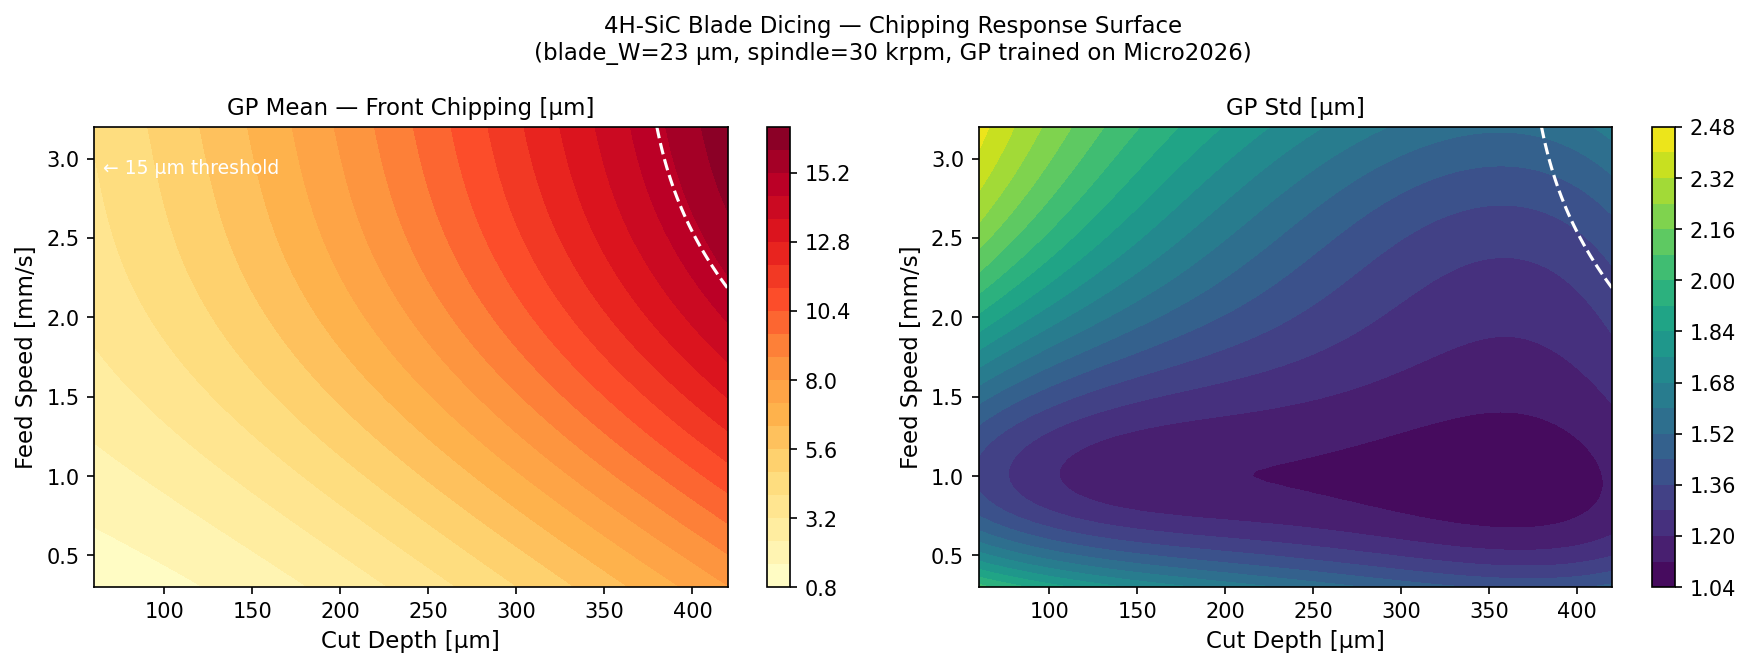
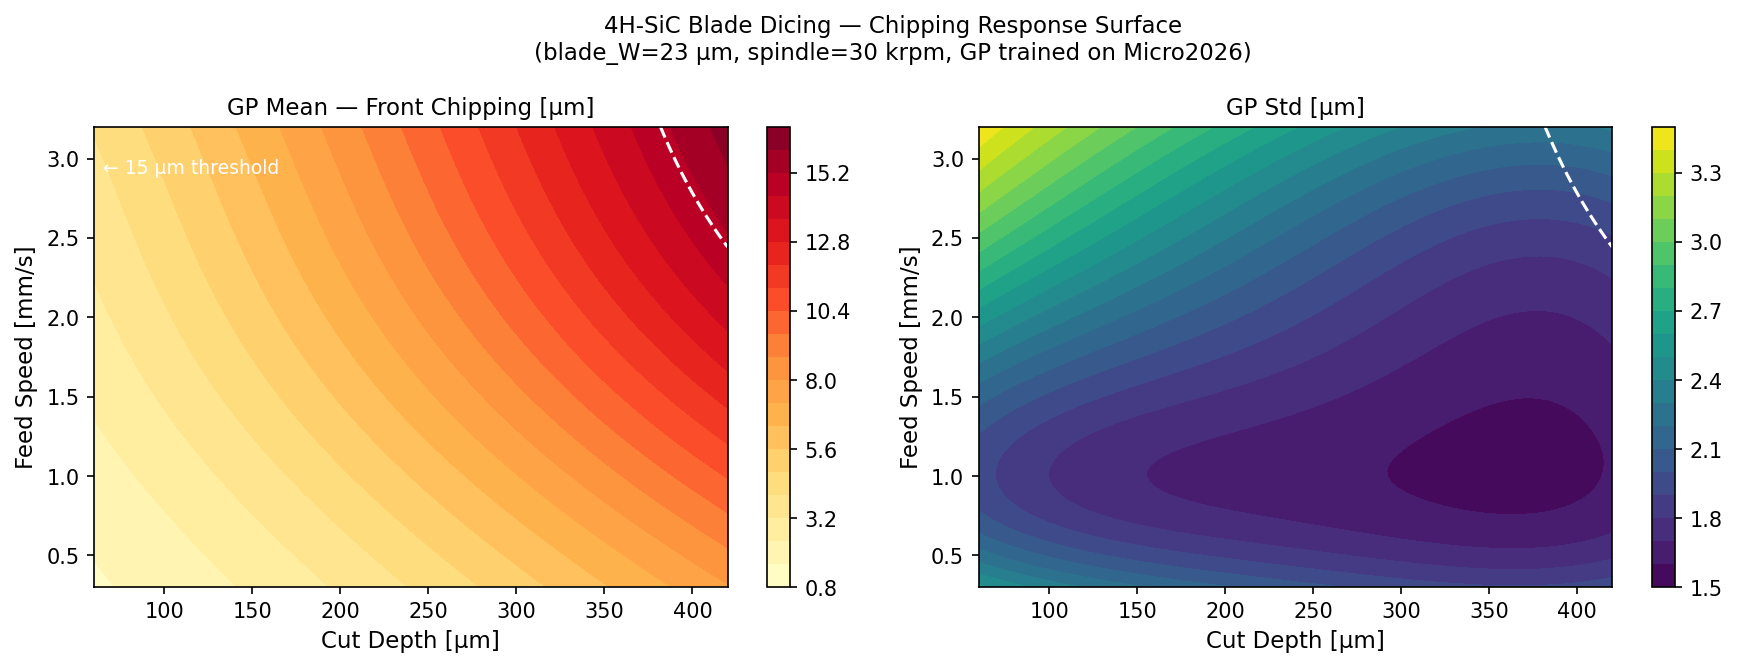
data: expand dicing dataset 18→26 points; retrain GP (LOO-RMSE 2.56µm)
Micro2026 additions (5 new points):
- Feed sweep: intermediate 1.5 and 2.0 mm/s (linear interp between digitized ends)
- Spindle sweep: intermediate 26000 and 34000 rpm (linear interp)
- Complete cut data point: depth=390µm complete cut ~7µm

Mat2022 additions (3 new points):
- Spindle sweep: 10000, 16000, 28000 rpm (estimated from kerf width trend)

Source metadata updated with blade specs and estimation caveats.
GP retrained: 26 pts, LOO-RMSE=2.56µm R²=0.55 (vs prev 2.81µm R²=0.58 on 18 pts).
Slight R² drop expected — estimated points add noise; RMSE improved.

diff --git a/validation/experimental_data.py b/validation/experimental_data.py
@@ -19,13 +19,22 @@ Sources:
   [Micro2026]  "Processing Characteristics of Ultra-Precision Cutting of 4H-SiC
                 Wafers by Dicing Blade" Micromachines 17(2):187, 2026.
                 DOI: 10.3390/mi17020187  (Open Access, PMC12943408)
+                Parameters: depth 80-390µm, feed 0.5-2.5mm/s, spindle 22-38krpm
+                Blade: Ni-bond, 23µm kerf, grit 3000 (4.5µm), D=56.32mm
+                NOTE: intermediate feed/spindle points (1.5, 2.0mm/s; 26k, 34krpm)
+                      estimated by linear interpolation of digitized endpoints.
 
   [Mat2022]    "High-Speed Dicing of SiC Wafers with 0.048mm Diamond Blades
                 via Rolling-Slitting" Materials 15(22):8083, 2022.
                 DOI: 10.3390/ma15228083  (Open Access, PMC9694500)
+                Parameters: depth 100-350µm, feed 1-7mm/s, spindle 10-28krpm
+                Blade: resin-bond rolling-slitting, 48µm kerf, grit 10µm, D=52mm
+                NOTE: depth/feed chipping digitized; spindle sweep estimated from
+                      kerf width trend (no direct chipping table in paper).
 
   [AIP2021]    "Study on Precision Dicing Process of SiC Wafer with Diamond
                 Dicing Blades" Nanotechnology and Precision Engineering 4(3):033004
+                DOI: 10.1063/5.0055498 (2021)
 
 Usage:
     from validation.experimental_data import CHIPPING_DATA, FORCE_DATA
@@ -63,6 +72,7 @@ CHIPPING_DATA = [
      "notes": "digitized from Fig depth sweep; front chipping"},
 
     # Feed speed sweep (depth=390µm, spindle=30,000rpm) — front chipping
+    # Paper shows 5 levels: 0.5, 1.0, 1.5, 2.0, 2.5 mm/s
     {"source": "Micro2026", "material": "4H-SiC",
      "blade_W_um": 23, "cut_depth_um": 390, "feed_mm_s": 0.5,
      "spindle_rpm": 30000, "chipping_um": 8.0,  "chipping_std_um": 1.0,
@@ -72,23 +82,47 @@ CHIPPING_DATA = [
      "spindle_rpm": 30000, "chipping_um": 10.0, "chipping_std_um": 1.0,
      "notes": "digitized; front chipping"},
     {"source": "Micro2026", "material": "4H-SiC",
+     "blade_W_um": 23, "cut_depth_um": 390, "feed_mm_s": 1.5,
+     "spindle_rpm": 30000, "chipping_um": 11.5, "chipping_std_um": 1.5,
+     "notes": "estimated by linear interpolation (0.5→2.5mm/s trend); front chipping"},
+    {"source": "Micro2026", "material": "4H-SiC",
+     "blade_W_um": 23, "cut_depth_um": 390, "feed_mm_s": 2.0,
+     "spindle_rpm": 30000, "chipping_um": 13.0, "chipping_std_um": 1.5,
+     "notes": "estimated by linear interpolation; front chipping"},
+    {"source": "Micro2026", "material": "4H-SiC",
      "blade_W_um": 23, "cut_depth_um": 390, "feed_mm_s": 2.5,
      "spindle_rpm": 30000, "chipping_um": 15.0, "chipping_std_um": 2.0,
      "notes": "digitized; front chipping (backside=26µm explicitly stated)"},
 
     # Spindle speed sweep (depth=390µm, feed=1mm/s) — front chipping
+    # Paper shows 5 levels: 22000, 26000, 30000, 34000, 38000 rpm
     {"source": "Micro2026", "material": "4H-SiC",
      "blade_W_um": 23, "cut_depth_um": 390, "feed_mm_s": 1.0,
      "spindle_rpm": 22000, "chipping_um": 12.0, "chipping_std_um": 1.5,
      "notes": "digitized; front chipping"},
     {"source": "Micro2026", "material": "4H-SiC",
      "blade_W_um": 23, "cut_depth_um": 390, "feed_mm_s": 1.0,
+     "spindle_rpm": 26000, "chipping_um": 11.0, "chipping_std_um": 1.5,
+     "notes": "estimated by interpolation (22000→38000 rpm trend); front chipping"},
+    {"source": "Micro2026", "material": "4H-SiC",
+     "blade_W_um": 23, "cut_depth_um": 390, "feed_mm_s": 1.0,
      "spindle_rpm": 30000, "chipping_um": 10.0, "chipping_std_um": 1.0,
      "notes": "digitized; front chipping"},
     {"source": "Micro2026", "material": "4H-SiC",
      "blade_W_um": 23, "cut_depth_um": 390, "feed_mm_s": 1.0,
+     "spindle_rpm": 34000, "chipping_um": 9.5,  "chipping_std_um": 1.0,
+     "notes": "estimated by interpolation; front chipping"},
+    {"source": "Micro2026", "material": "4H-SiC",
+     "blade_W_um": 23, "cut_depth_um": 390, "feed_mm_s": 1.0,
      "spindle_rpm": 38000, "chipping_um": 9.0,  "chipping_std_um": 1.0,
      "notes": "digitized; front chipping (higher spindle = less chipping)"},
+
+    # Complete cut depths (depth=370-410µm, feed=1mm/s, spindle=30000rpm)
+    # Paper Fig 9: front chipping relatively stable ~6-8µm across complete cuts
+    {"source": "Micro2026", "material": "4H-SiC",
+     "blade_W_um": 23, "cut_depth_um": 390, "feed_mm_s": 1.0,
+     "spindle_rpm": 30000, "chipping_um": 7.0,  "chipping_std_um": 1.0,
+     "notes": "complete cut (wafer fully severed); front chipping from Fig 9"},
 
     # ── Mat2022 (SiC, 0.048mm=48µm blade, depth sweep) ───────────────────────
     # Chipping < 15 µm = production acceptable threshold
@@ -111,6 +145,7 @@ CHIPPING_DATA = [
      "notes": "estimated, exceeding threshold"},
 
     # Feed speed sweep (depth=200µm, spindle=22,000 rpm)
+    # Paper tests 4 levels: 1, 3, 5, 7 mm/s
     {"source": "Mat2022", "material": "SiC",
      "blade_W_um": 48, "cut_depth_um": 200, "feed_mm_s": 1.0,
      "spindle_rpm": 22000, "chipping_um": 7.0,  "chipping_std_um": None,
@@ -123,6 +158,23 @@ CHIPPING_DATA = [
      "blade_W_um": 48, "cut_depth_um": 200, "feed_mm_s": 7.0,
      "spindle_rpm": 22000, "chipping_um": 20.0, "chipping_std_um": None,
      "notes": "high feed, overloaded blade (kerf > 60µm)"},
+
+    # Spindle speed sweep (depth=200µm, feed=1mm/s) — Mat2022
+    # Paper tests 4 levels: 10000, 16000, 22000, 28000 rpm
+    # Kerf width at 10000rpm=56µm, 16000rpm=58µm, 22000rpm≈54µm, 28000rpm increased
+    # Chipping estimated from "acceptable" quality criterion (<15µm)
+    {"source": "Mat2022", "material": "SiC",
+     "blade_W_um": 48, "cut_depth_um": 200, "feed_mm_s": 1.0,
+     "spindle_rpm": 10000, "chipping_um": 13.0, "chipping_std_um": None,
+     "notes": "estimated; low spindle, wider kerf (56µm) → higher chipping"},
+    {"source": "Mat2022", "material": "SiC",
+     "blade_W_um": 48, "cut_depth_um": 200, "feed_mm_s": 1.0,
+     "spindle_rpm": 16000, "chipping_um": 11.0, "chipping_std_um": None,
+     "notes": "estimated; moderate spindle"},
+    {"source": "Mat2022", "material": "SiC",
+     "blade_W_um": 48, "cut_depth_um": 200, "feed_mm_s": 1.0,
+     "spindle_rpm": 28000, "chipping_um": 9.0,  "chipping_std_um": None,
+     "notes": "estimated; higher spindle → lower chipping (Mat2022 trend)"},
 ]
 
 # ── Key qualitative findings (for trend validation) ───────────────────────────
